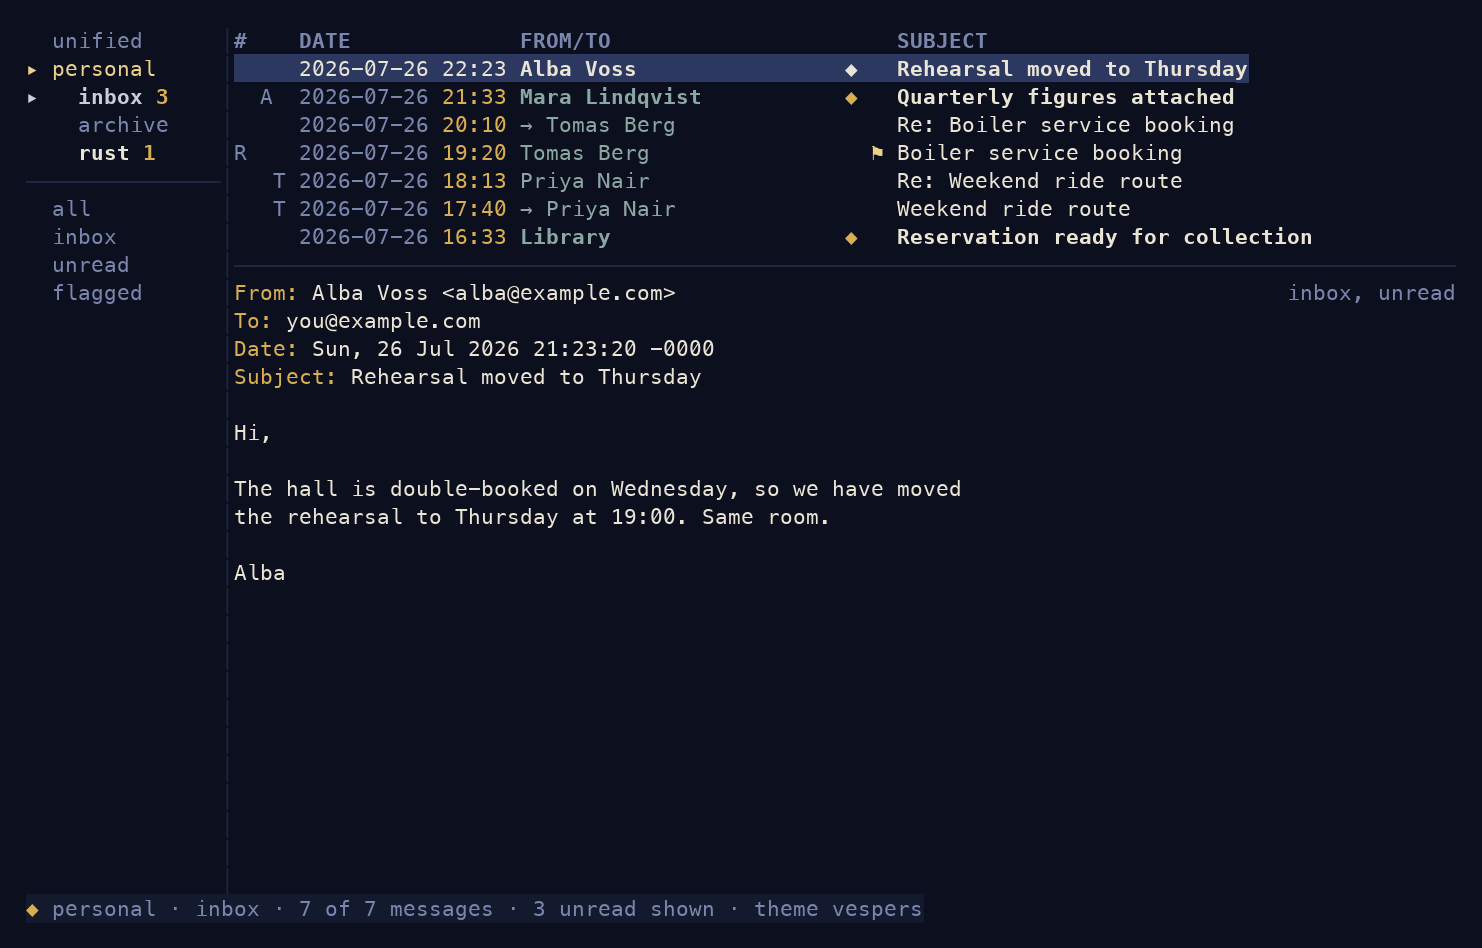
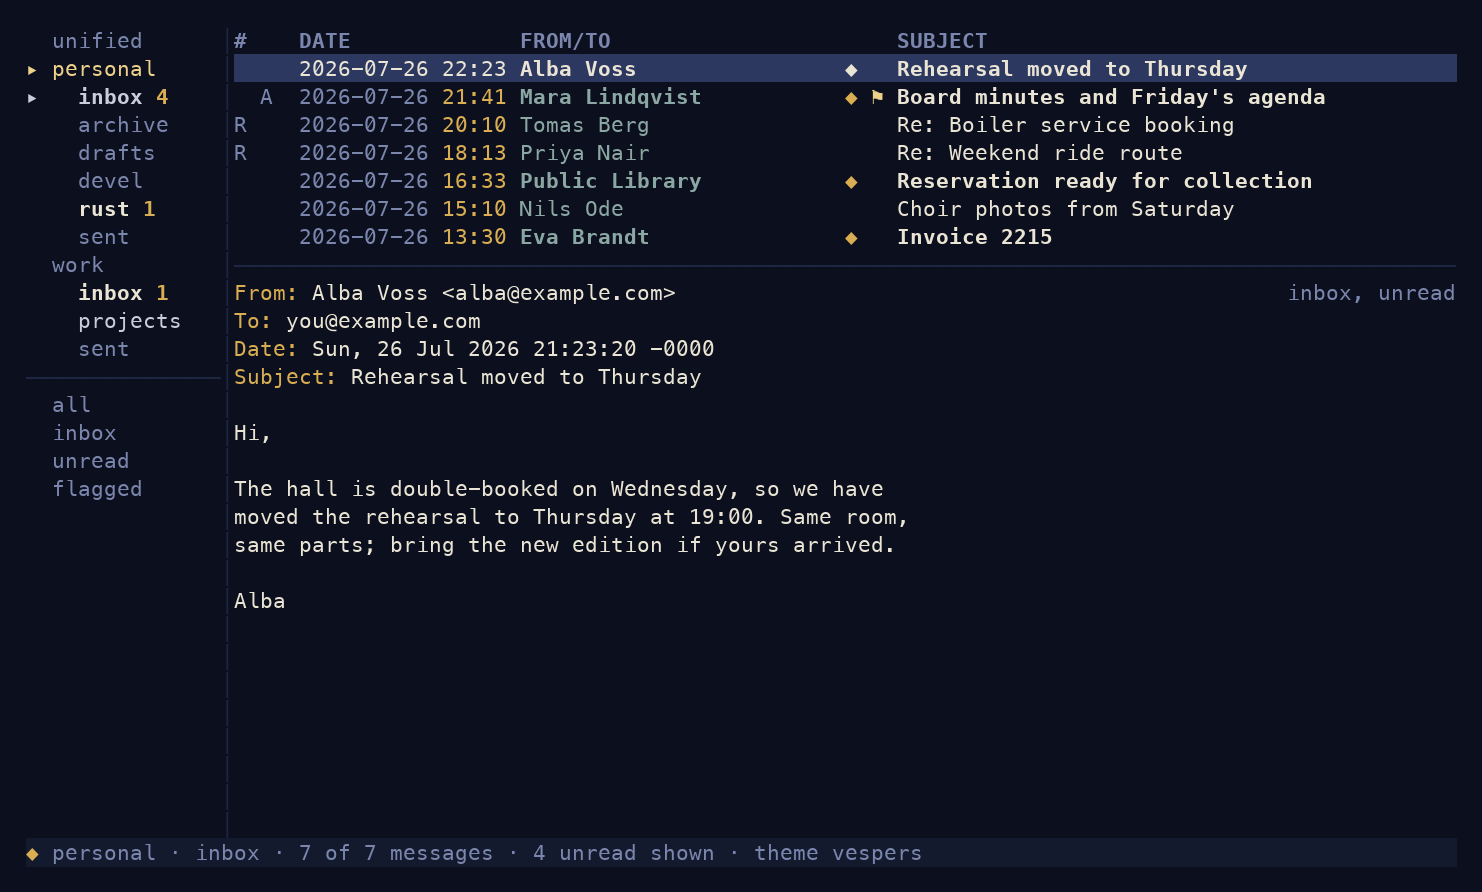
docs(readme): one gif, seventeen themes, two accounts
The three stills give way to a single loop of the main
interface cycling every shipped theme, captured against a
richer two-account mailbox with the sent mail where sent
mail lives; the capture pipeline keeps trailing styled cells
now, so bars run the full width.

diff --git a/README.md b/README.md
@@ -24,20 +24,14 @@ and your own gpg-agent, keyring and smartcard included.
 
 ## A look around
 
-<img src="https://git.sr.ht/~donquinleone/antiphon/blob/master/assets/screenshots/list.png"
-     alt="The message list: sidebar with unread counts, status
-          markers, threading marks and the reading pane"
+<img src="https://git.sr.ht/~donquinleone/antiphon/blob/master/assets/screenshots/themes.gif"
+     alt="The message list cycling through all seventeen
+          shipped themes: two accounts in the sidebar, unread
+          counts, status markers and the reading pane"
      width="820">
 
-<img src="https://git.sr.ht/~donquinleone/antiphon/blob/master/assets/screenshots/pager.png"
-     alt="Reading a message: generated keybar, headers, and
-          the attachment drawer expanded"
-     width="820">
-
-<img src="https://git.sr.ht/~donquinleone/antiphon/blob/master/assets/screenshots/compose.png"
-     alt="Composing: structured header fields with contact
-          completion in a popover"
-     width="820">
+Seventeen themes ship, and yours is one TOML file away; the
+website shows [the rest of the interface](https://antiphon.net).
 
 ## Why Antiphon
 
